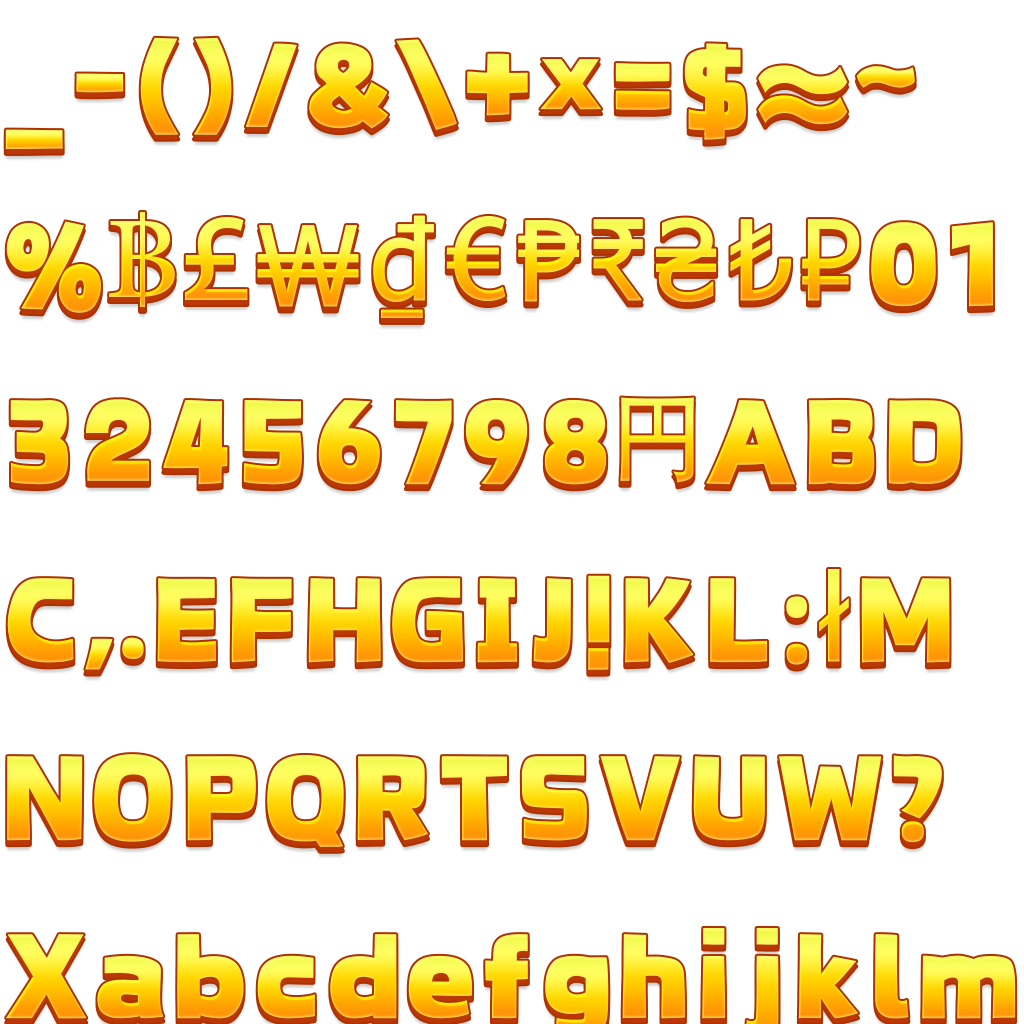
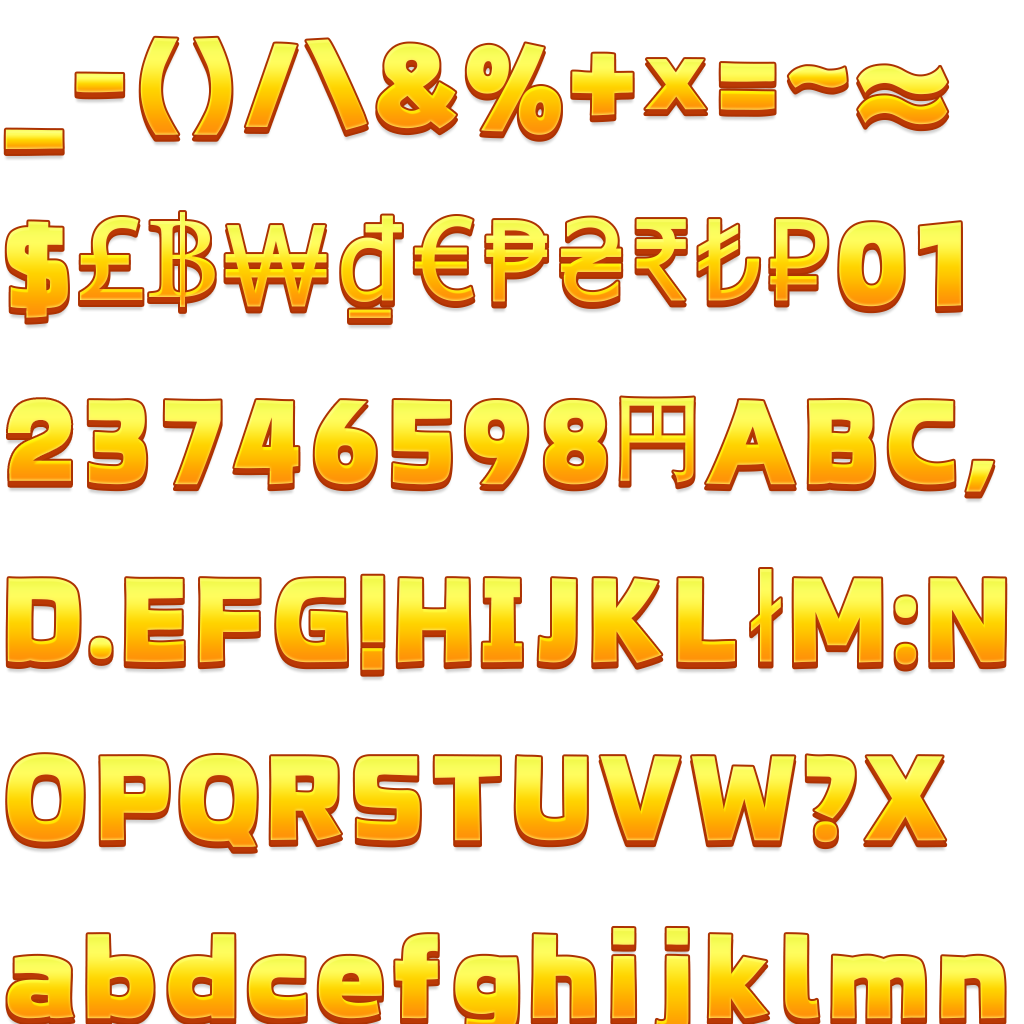
弹窗逻辑调整

diff --git a/assets/WordFrame/Scripts/FrameSDK.ts b/assets/WordFrame/Scripts/FrameSDK.ts
@@ -1035,6 +1035,8 @@ export class FrameSDK {
     static postLevelSettlementActive = false;
     /** 通关后解锁弹窗链执行中，避免与其它主动弹窗重叠 */
     static postLevelUnlockChainActive = false;
+    /** 首次新手（RDM 教程后）进关：跳过一次 Panel_RedeemTips，直接展示等级横幅 */
+    static skipNextRedeemTipsOnce = false;
 
     static setPostLevelSettlementActive(active: boolean): void {
         FrameSDK.postLevelSettlementActive = active;
@@ -1301,6 +1303,11 @@ export class FrameSDK {
 
         })
             .then(() => new Promise<void>(resolve => {
+                if (FrameSDK.skipNextRedeemTipsOnce) {
+                    FrameSDK.skipNextRedeemTipsOnce = false;
+                    resolve();
+                    return;
+                }
                 //不知道这个判断有啥用，我这个项目应该不适用，不然第一关的时候拉不起这个提示
                 // if (levelA < FrameData.FRAME_CONF.RedeemTipsStartLevel || levelA > this.getFirstRedeemRequirement().rdm_1) {
                 // if (levelA > this.getFirstRedeemRequirement().rdm_1) {

diff --git a/assets/Scripts/wordframe/LoadWord.ts b/assets/Scripts/wordframe/LoadWord.ts
@@ -253,6 +253,12 @@ export default class LoadWord {
     if (!this._awaitNewHandRewardFlow && !force) {
       return;
     }
+    if (force) {
+      const sdk = LoadWord.FrameSDK;
+      if (sdk) {
+        sdk.skipNextRedeemTipsOnce = true;
+      }
+    }
     this._awaitNewHandRewardFlow = false;
     const run = this._deferredPreLevelBanners;
     this._deferredPreLevelBanners = null;
